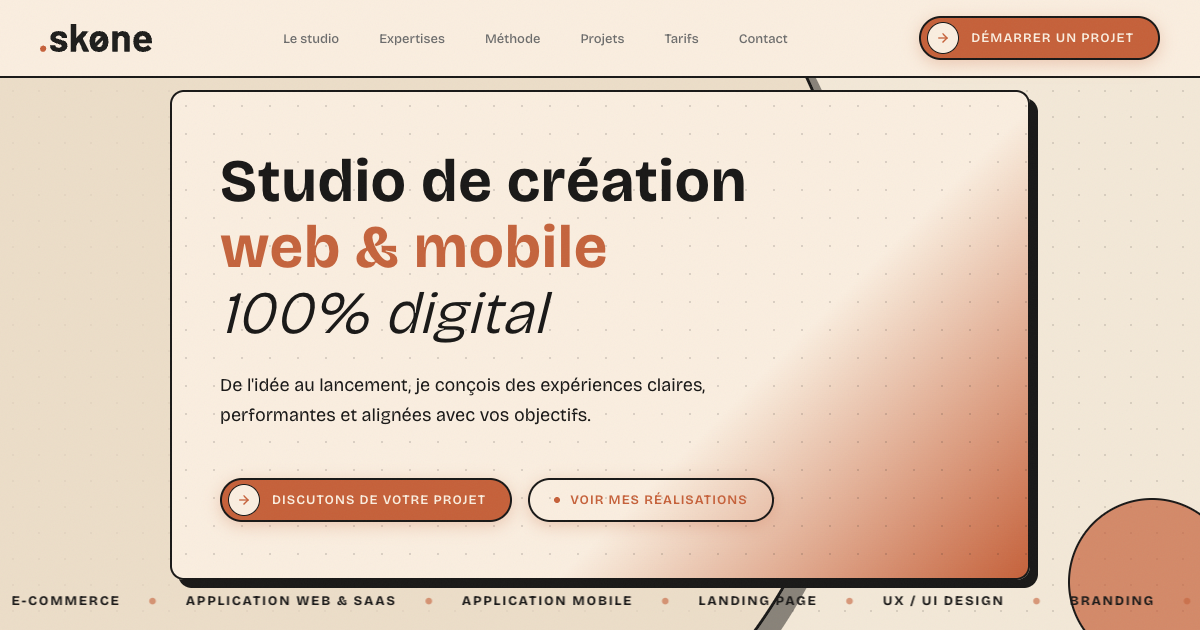
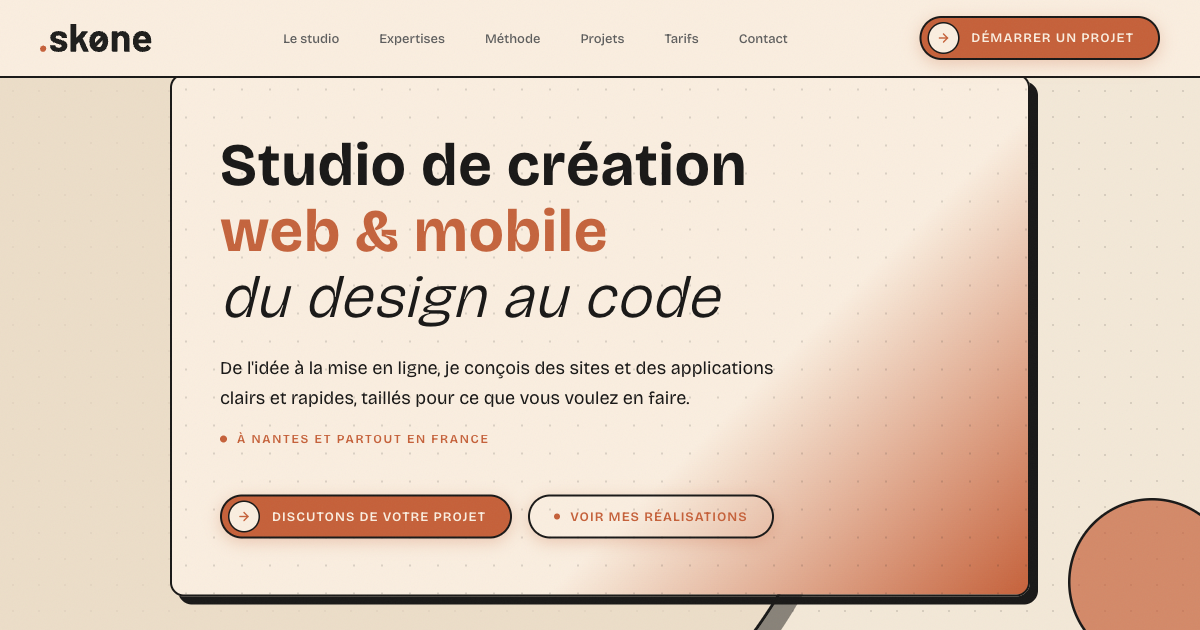
Image de partage régénérée depuis le site à jour
L'og-image datait de mai : elle affichait « 100% digital » et un
statement que le site n'a plus. Recapturée depuis le rendu réel, sans
le bandeau cookies, le curseur custom ni le bouton retour-en-haut.

Le bandeau de services défilant est retiré : la ligne de localisation
ajoutée au hero le poussait hors cadre, coupé en plein milieu des
lettres. Les alt og:image et twitter:image suivent le nouveau texte.

diff --git a/index.html b/index.html
@@ -20,7 +20,7 @@
   <meta property="og:image"        content="https://studioskone.com/og-image.png" />
   <meta property="og:image:width"  content="1200" />
   <meta property="og:image:height" content="630" />
-  <meta property="og:image:alt"    content="Studio Skøne · création de produits web &amp; mobile, 100% digital" />
+  <meta property="og:image:alt"    content="Studio Skøne · création de produits web &amp; mobile, du design au code" />
   <meta property="og:url"          content="https://studioskone.com" />
 
   <!-- Twitter Card -->
@@ -28,7 +28,7 @@
   <meta name="twitter:title"       content="Studio Skøne · Création de produits web &amp; mobile" />
   <meta name="twitter:description" content="Design et développement par la même personne, de l'idée à la mise en ligne. Dès 900€." />
   <meta name="twitter:image"       content="https://studioskone.com/og-image.png" />
-  <meta name="twitter:image:alt"   content="Studio Skøne · création de produits web &amp; mobile, 100% digital" />
+  <meta name="twitter:image:alt"   content="Studio Skøne · création de produits web &amp; mobile, du design au code" />
 
   <!-- Schema.org JSON-LD · ProfessionalService -->
   <script type="application/ld+json">
